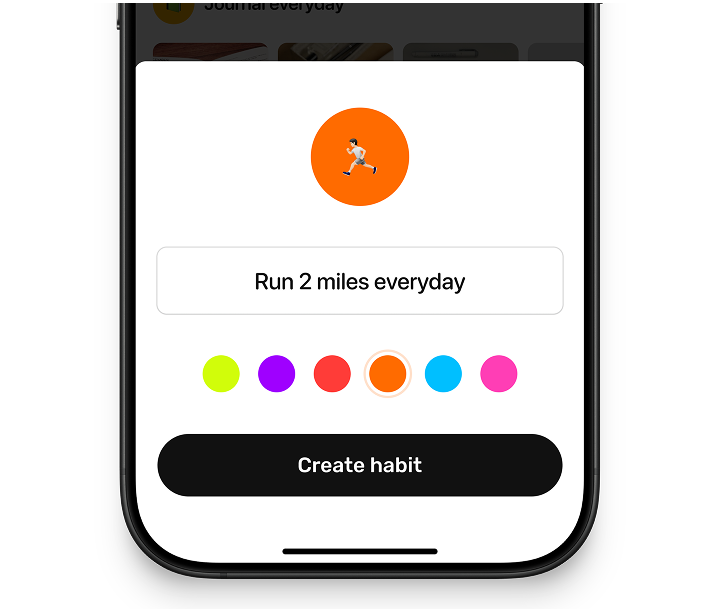
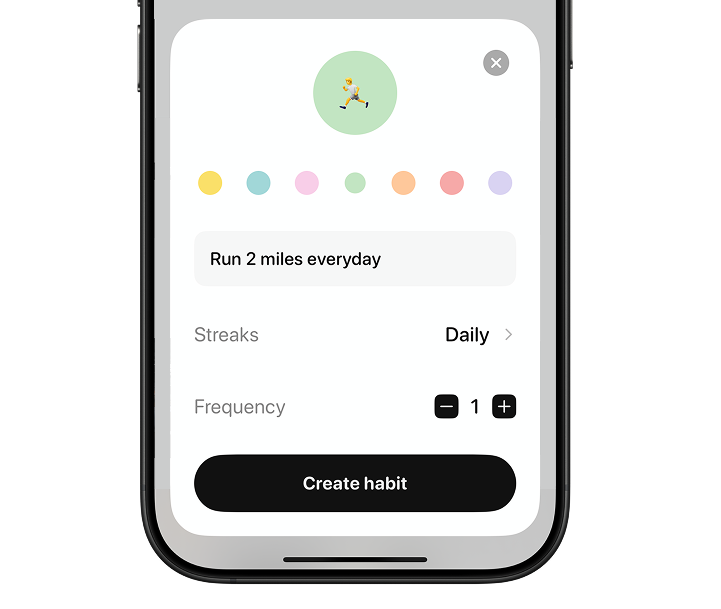
images and colors updated

diff --git a/styles.css b/styles.css
@@ -27,31 +27,31 @@ body {
 }
 
 .bg-sun-yellow {
-  background-color: #D1FD0A;
+  background-color: #FBE169;
 }
 
 .bg-neon-purple {
-  background-color: #9F00FF;
+  background-color: #D9D3F2;
 }
 
 .bg-vivid-red {
-  background-color: #FF3C38;
+  background-color: #F7A9A8;
 }
 
 .bg-deep-orange {
-  background-color: #FF6B00;
+  background-color: #FFC89B;
 }
 
 .bg-sky-blue {
-  background-color: #00BFFF;
+  background-color: #A1D7D8;
 }
 
 .bg-lime-green {
-  background-color: #B6FF00;
+  background-color: #C3E5C2;
 }
 
 .bg-hot-pink {
-  background-color: #FF3EB5;
+  background-color: #F8CFE8;
 }
 
 .marquee-track {
